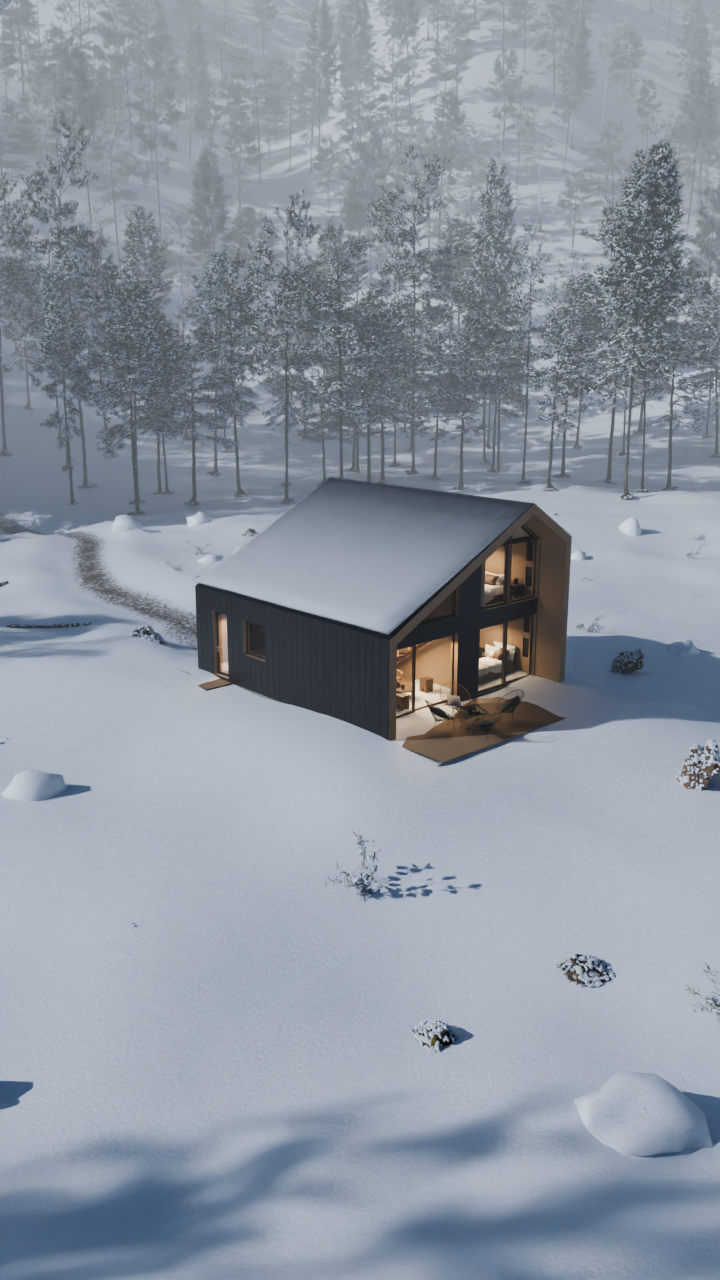
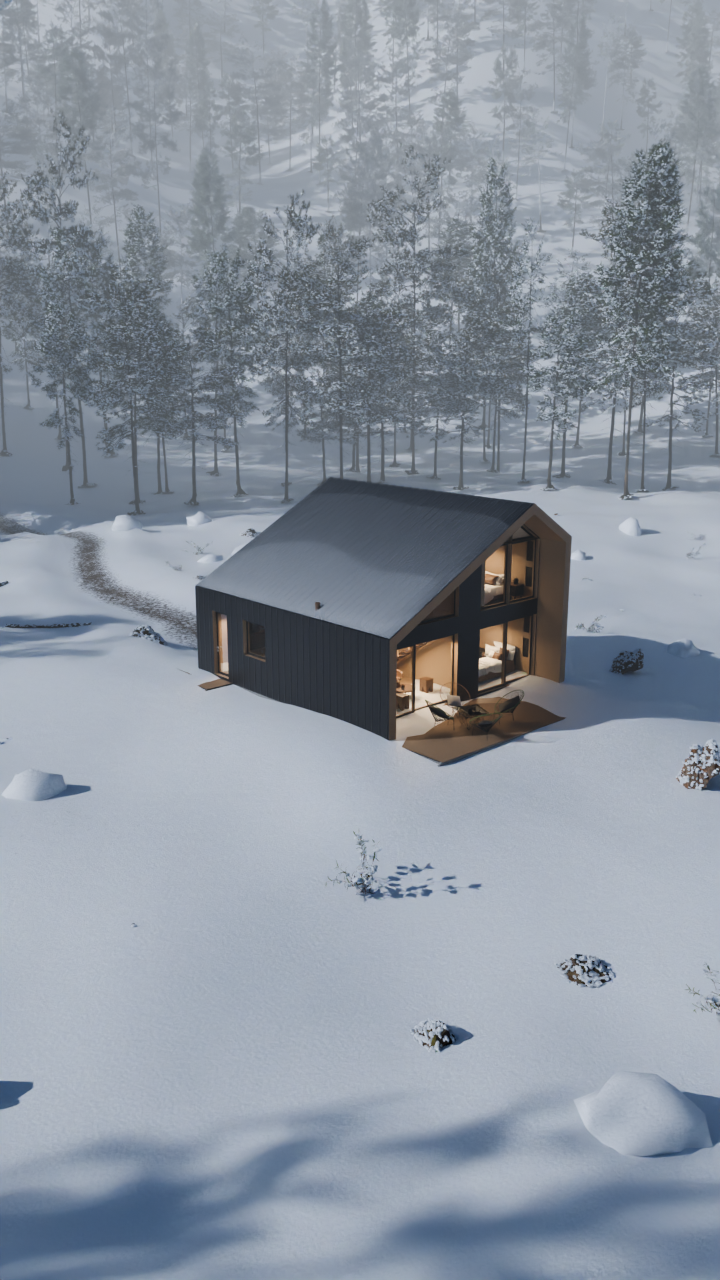
Peumo: la nieve del techo queda en 0,28
El punto entre las dos opciones que convencían: el techo se lee como chapa oscura con
una película de nieve que gana apenas hacia el alero. Es lo coherente con el enganche
de la casa, que son los 28° descargando la nieve solos.

La granulada queda descartada: con los granos mucho más chicos se veía como papel de
lija, demasiado pareja. A esta distancia el grano no se lee como nieve.

Claude-Session: https://claude.ai/code/session_01EHD4cEPhnZPJhpXhvTg9hJ

Changed region(s): [[0.275, 0.375, 0.7333, 0.5]]

diff --git a/casa_peumo_3d.py b/casa_peumo_3d.py
@@ -39,7 +39,7 @@ argv = sys.argv[sys.argv.index("--") + 1:] if "--" in sys.argv else []
 opts = {"vista": "izq", "out": "//cuadro.png", "res": "720x1280", "samples": "32", "still": "1",
         "wb": "6250", "save": None, "dof": "1",
         "nevada": "1.0", "tramo": "s1",
-        "carga": "1.0", "techo": "1.0", "techo_modo": "capa"}
+        "carga": "1.0", "techo": "0.28", "techo_modo": "capa"}
 for i in range(0, len(argv), 2):
     opts[argv[i].lstrip("-")] = argv[i + 1]
 
@@ -86,7 +86,8 @@ ORBITA = (15.0, 42.0)        # franja radial por donde pasa el dron: sin árbole
 # cuántos de ellos se muestran, con un sorteo estable por punto. Así los grumos que ya estaban
 # no se mueven nunca y sólo van apareciendo los que faltan.
 CARGA = (0.40, 1.0)          # carga de nieve al principio y al final del video
-TECHO = float(opts["techo"])  # cuánta nieve queda en el techo (1 = lámina llena)
+TECHO = float(opts["techo"])  # cuánta nieve queda en el techo; 0,28 es la elegida: los 28°
+                              # descargan casi toda y queda una película que gana al alero
 VIDEO_N = 1008               # cuadros del video completo (las cinco partes, s4 incluida)
 VIDEO_G0 = {"s1": 0, "s2": 240, "s3": 432, "s5": 816}   # dónde empieza cada parte
 VIENTO = Vector((0.82, 0.57, 0.0)).normalized()
